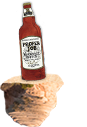
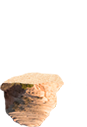
bottle RO anim added

Changed region(s): [[0.2069, 0.0, 0.5517, 0.6614]]

diff --git a/app/index.html b/app/index.html
@@ -33,7 +33,10 @@
                 <div class="page">
                     <div id="inner">
                         <div data-depth="0.30" class="back layer">
-                            <div class="bottle"><img src="images/nwtc/Bottle-island.png" width="87" height="127" /></div>
+                            <div class="bottle">
+                                <img src="images/nwtc/Bottle-island.png" width="87" height="127" />
+                                <img src="images/nwtc/Bottle.png" class="bottleFall"/>
+                            </div>
                             <div class="man" ><img src="images/nwtc/ginger-island-presenting-man-copy.png" width="263" height="188"/></div>
                             <div class="pansy"><img src="images/nwtc/ginger-pansy-island.png" width="235" height="194"   /></div>
 

diff --git a/app/scripts/main.js b/app/scripts/main.js
@@ -60,6 +60,13 @@ var Anim = (function Anim(page){
                 $('.rainMask').css('height', '300px');
             }, 400);
         },200);
+        $('.bottleFall').mouseover(function(){
+            $('.bottleFall').css('transform','rotate(-180deg)');
+            setTimeout(function(){
+            $('.bottleFall').css('top','1000px');
+        },200);
+           
+        })
         
     }
 });

diff --git a/app/styles/_nwtc.scss b/app/styles/_nwtc.scss
@@ -86,6 +86,12 @@
 		position: absolute;
 		left:1010px;
 		top: 170px;
+		.bottleFall{
+			position:absolute;
+			top:0px;
+			left:0px;
+			@include transition(all 2s ease-in);
+		}
 	}
 
 	.mushroom{
